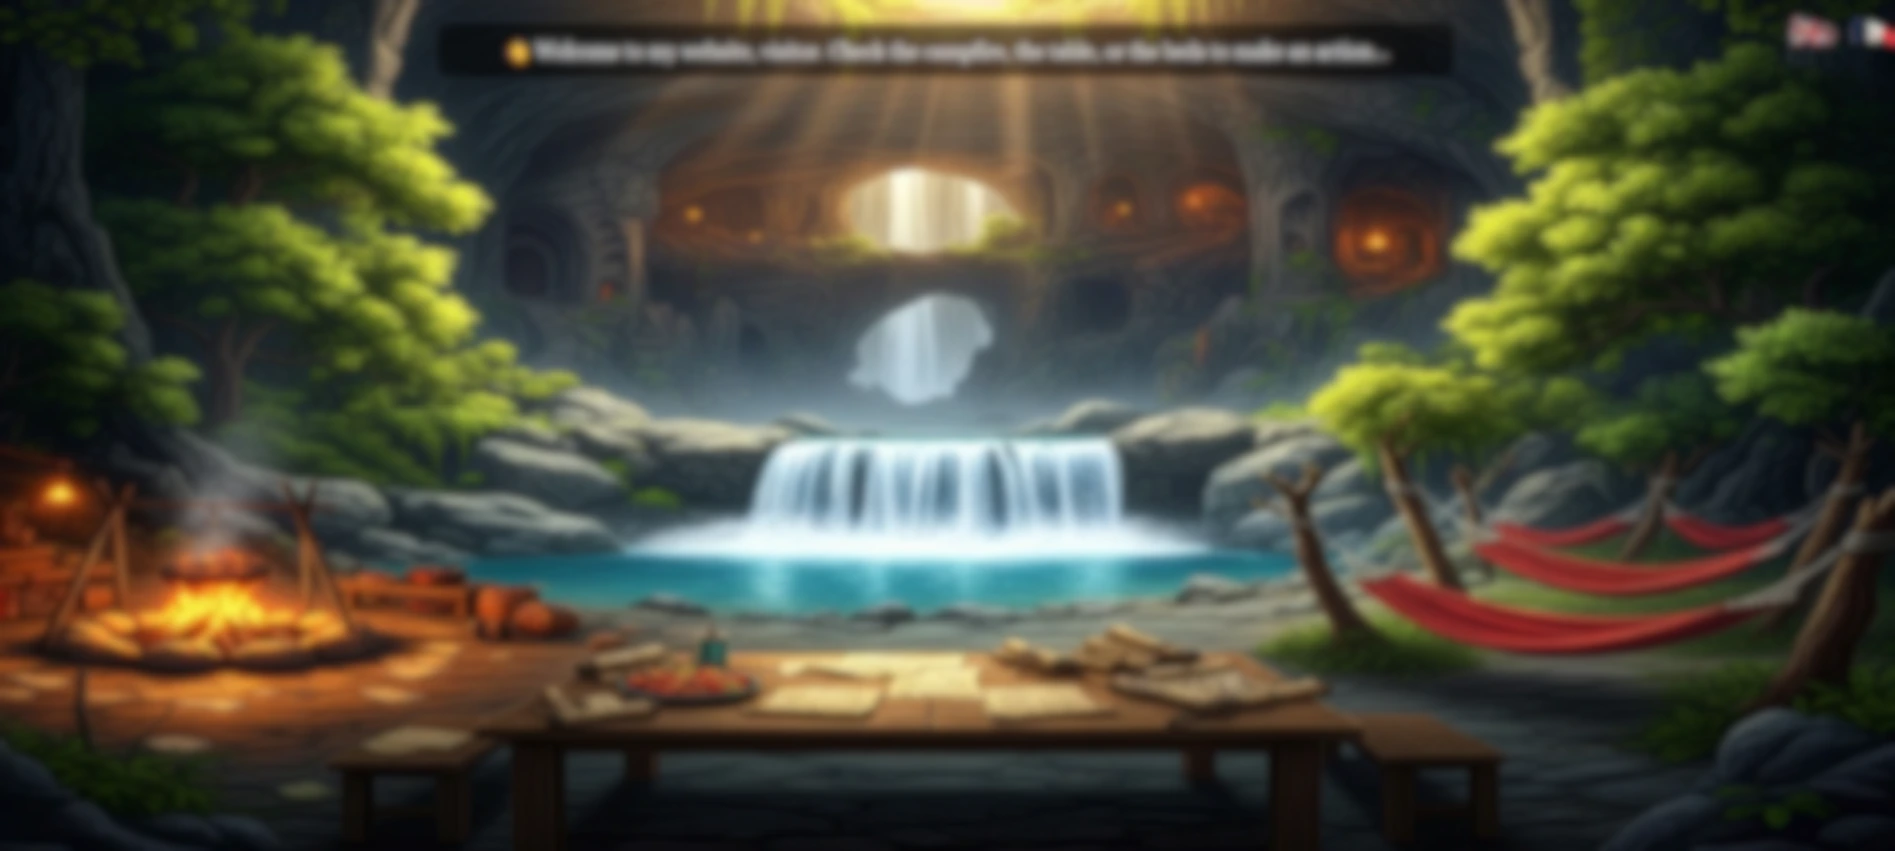
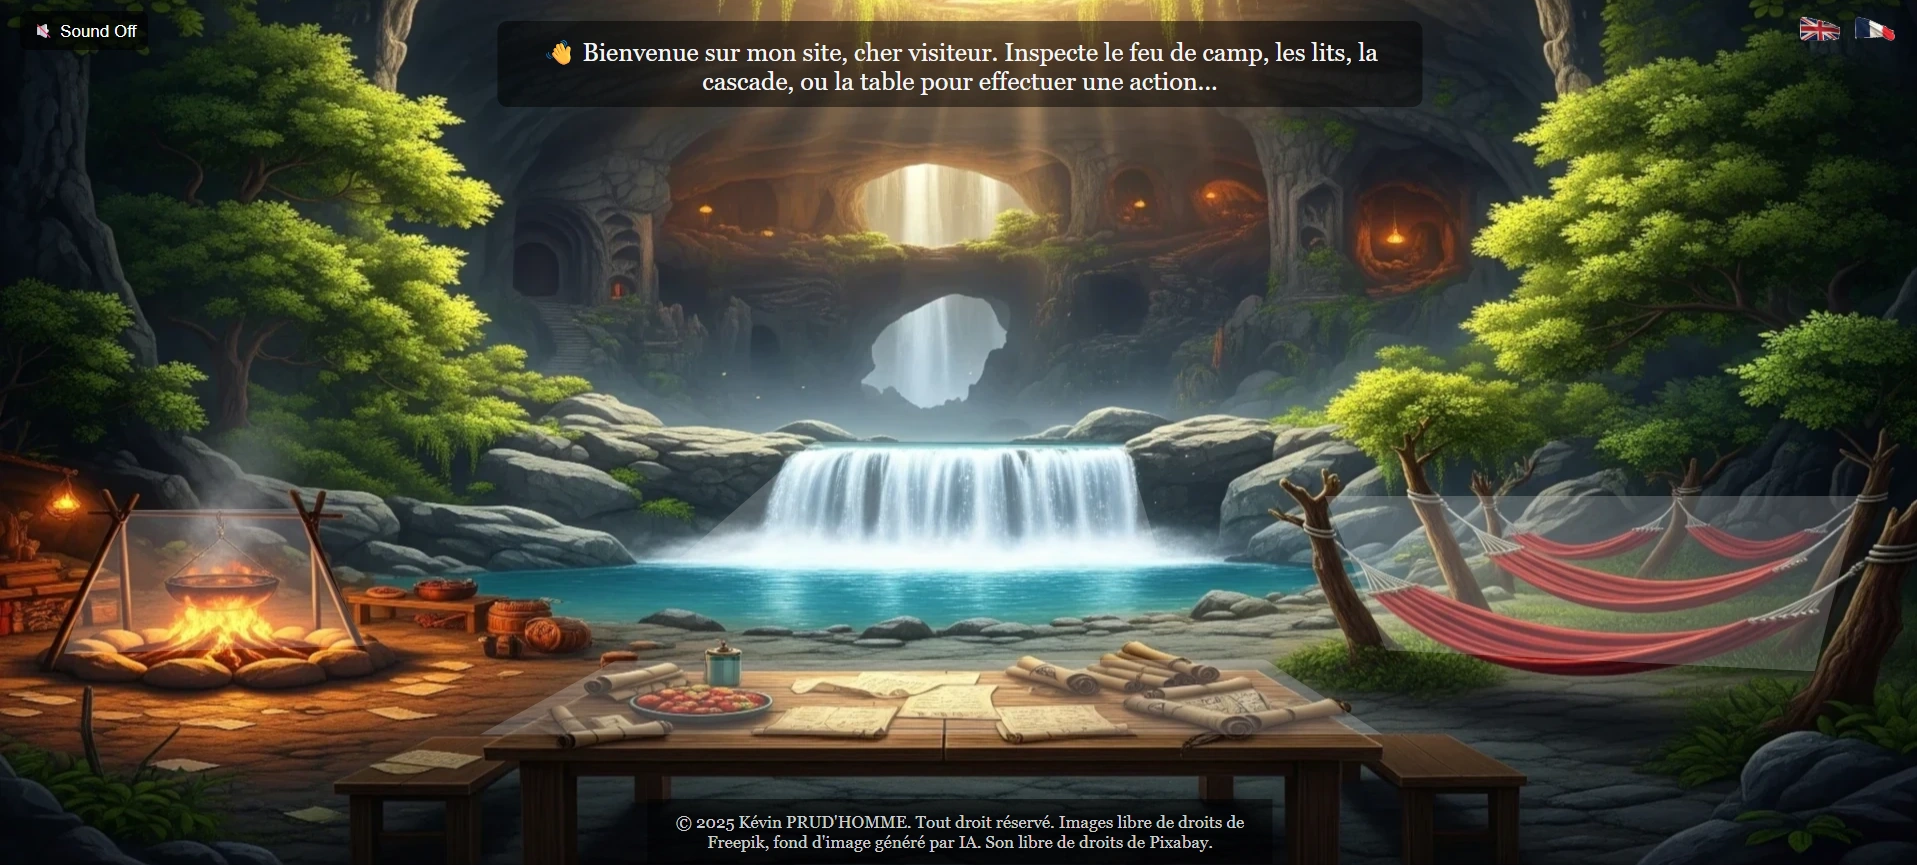
Deleting professionnal project, changing images of website

diff --git a/src/Projects.jsx b/src/Projects.jsx
@@ -6,11 +6,6 @@ import HanoiMenu from "./images/hanoi_menu.webp";
 import HanoiBasic from "./images/hanoi_basic.webp";
 import HanoiSurvival from "./images/hanoi_survival.webp";
 
-import AcaciaBefore from "./images/acacia_original.webp";
-import AcaciaAfter from "./images/acacia_new.webp";
-import GaminBefore from "./images/gamin_original.webp";
-import GaminAfter from "./images/gamin_new.webp";
-
 import WereAngMenu from "./images/lg_angular_menu.webp";
 import WereAngAbout from "./images/lg_angular_about.webp";
 import WereAngFAQ from "./images/lg_angular_faq.webp";
@@ -35,18 +30,11 @@ import PortFolioContact from "./images/portfolio_contact.webp";
 
 import { motion, AnimatePresence } from "framer-motion";
 
-import Carousel_image from "./Carousel_image";
+import Carousel_Image from "./Carousel_Image";
 
 import { useTranslation } from "react-i18next";
 
 function Projects() {
-
-  const AcaciaGaminImages = [
-    AcaciaBefore,
-    AcaciaAfter,
-    GaminBefore,
-    GaminAfter
-  ];
 
   const HanoiImages = [
     HanoiMenu,
@@ -120,37 +108,30 @@ function Projects() {
         <div className="ProjectText">{t("projectTips")}</div>
       </div>
       <div>
-        <div className="smallTitle">{t("sopraTitle")}</div>
-        <div className="type">{t("projectTypePro")}</div>
-        <Carousel_image images={AcaciaGaminImages} onImageClick={openZoom}/>
-        <div className="ProjectText">{t("sopraDescription")}</div>
-        <div className="stateProject">{t("projectStatement")} {t("projectStatementOngoing")}</div>
-      </div>
-      <div>
         <div className="smallTitle">{t("hanoiTitle")}</div>
         <div className="type">{t("projectTypeInterview")}</div>
-        <Carousel_image images={HanoiImages} onImageClick={openZoom}/>
+        <Carousel_Image images={HanoiImages} onImageClick={openZoom}/>
         <div className="ProjectText">{t("hanoiDescription")}</div>
         <div className="stateProject">{t("projectStatement")} {t("projectStatementCompleted")}</div>
       </div>
       <div>
         <div className="smallTitle">{t("werewolfAngularTitle")}</div>
         <div className="type">{t("projectTypePersonal")}</div>
-        <Carousel_image images={WereWolveAngularImages} onImageClick={openZoom}/>
+        <Carousel_Image images={WereWolveAngularImages} onImageClick={openZoom}/>
         <div className="ProjectText">{t("werewolfAngularDescription")}</div>
         <div className="stateProject">{t("projectStatement")} {t("projectStatementCompleted")}</div>
       </div>
       <div>
         <div className="smallTitle">{t("werewolfKotlinTitle")}</div>
         <div className="type">{t("projectTypePersonal")}</div>
-        <Carousel_image images={WerewolveKotlinImages} onImageClick={openZoom}/>
+        <Carousel_Image images={WerewolveKotlinImages} onImageClick={openZoom}/>
         <div className="ProjectText">{t("werewolfKotlinDescription")}</div>
         <div className="stateProject">{t("projectStatement")} {t("projectStatementCompleted")}</div>
       </div>
       <div>
         <div className="smallTitle">{t("portfolioTitle")}</div>
         <div className="type">{t("projectTypePersonal")}</div>
-        <Carousel_image images={PortfolioImages} onImageClick={openZoom}/>
+        <Carousel_Image images={PortfolioImages} onImageClick={openZoom}/>
         <div className="ProjectText">{t("portfolioDescription")}</div>
         <div className="stateProject">{t("projectStatement")} {t("projectStatementOngoing")}</div>
       </div>

diff --git a/src/Carousel_image.jsx b/src/Carousel_image.jsx
@@ -1,8 +1,8 @@
 import { useState } from "react";
 import { motion } from "framer-motion";
-import "./Carousel_image.css";
+import "./Carousel_Image.css";
 
-function Carousel_image({images, onImageClick}) {
+function Carousel_Image({images, onImageClick}) {
     const [active, setActive] = useState(0);
 
     const prevIndex = (active + images.length - 1) % images.length;
@@ -43,4 +43,4 @@ function Carousel_image({images, onImageClick}) {
     );
 }
 
-export default Carousel_image;
+export default Carousel_Image;

diff --git a/public/index.html b/public/index.html
@@ -7,7 +7,7 @@
     <meta name="theme-color" content="#000000" />
     <meta
       name="description"
-      content="Web site created using create-react-app"
+      content="Portfolio of Kévin PRUD'HOMME"
     />
     <link rel="apple-touch-icon" href="%PUBLIC_URL%/logo192.png" />
     <!--

diff --git a/src/Home.css b/src/Home.css
@@ -106,7 +106,7 @@ body.modal-open {
 }
 
 .scroll-content::-webkit-scrollbar-thumb {
-  background-color: rgba(120, 90, 40, 0.5);
+  background-color: rgba(255, 255, 255, 0.7);
   border-radius: 4px;
 }
 
